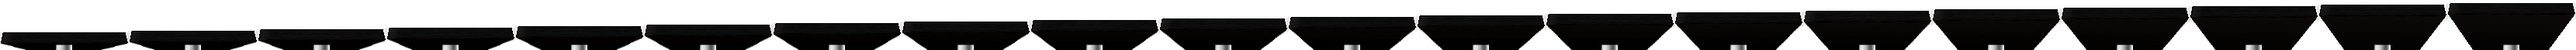
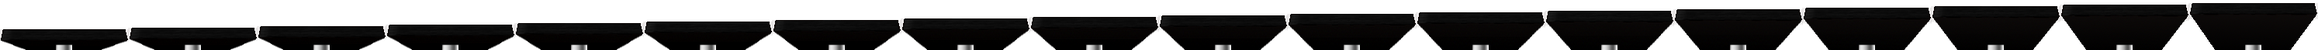
* replace images for wah.lv2

diff --git a/trunk/src/LV2/gxautowah.lv2/gxautowah_gui.cpp b/trunk/src/LV2/gxautowah.lv2/gxautowah_gui.cpp
@@ -72,7 +72,7 @@ void GxautowahGUI::set_knob( Glib::ustring knob)
               "   stock['smallknobr'] = {{'";
   addKnob +=  knob;
   addKnob +=  ".png'}}\n";
-  addKnob +=  "GxKnob::framecount = 20\n"
+  addKnob +=  "GxKnob::framecount = 18\n"
               " }\n"
               "widget '*.";
   addKnob +=  plug_name;
